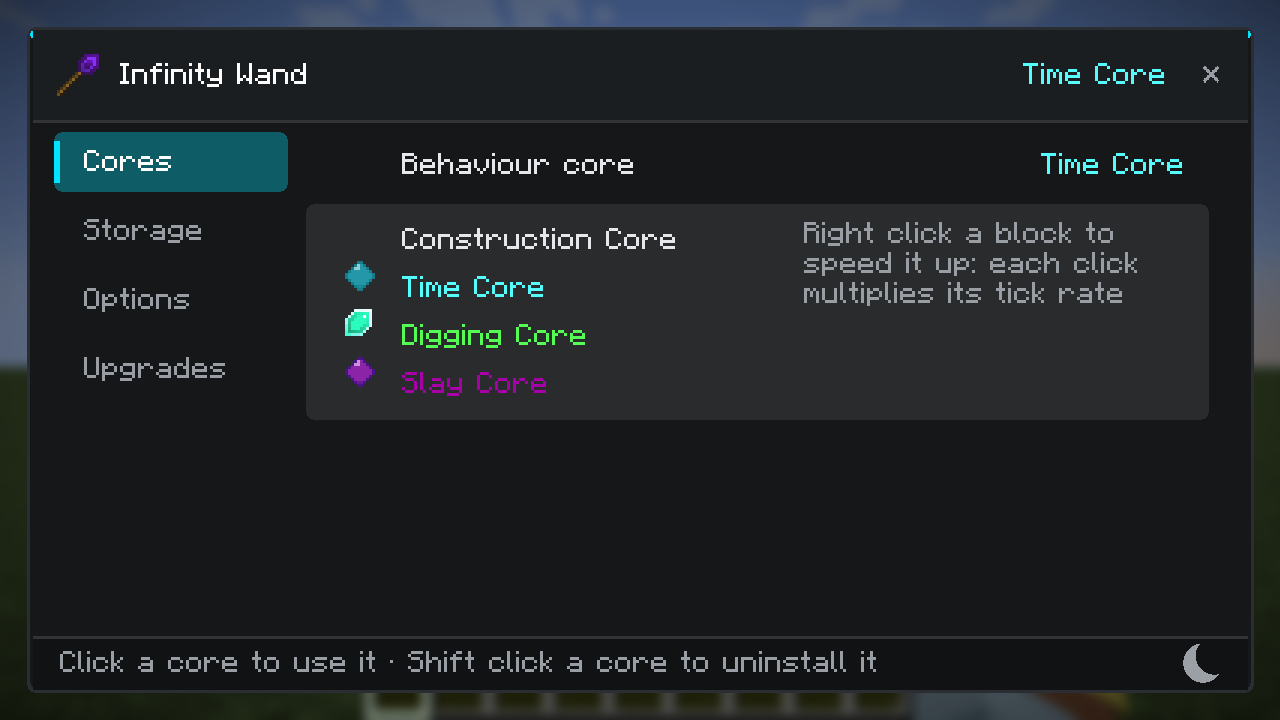
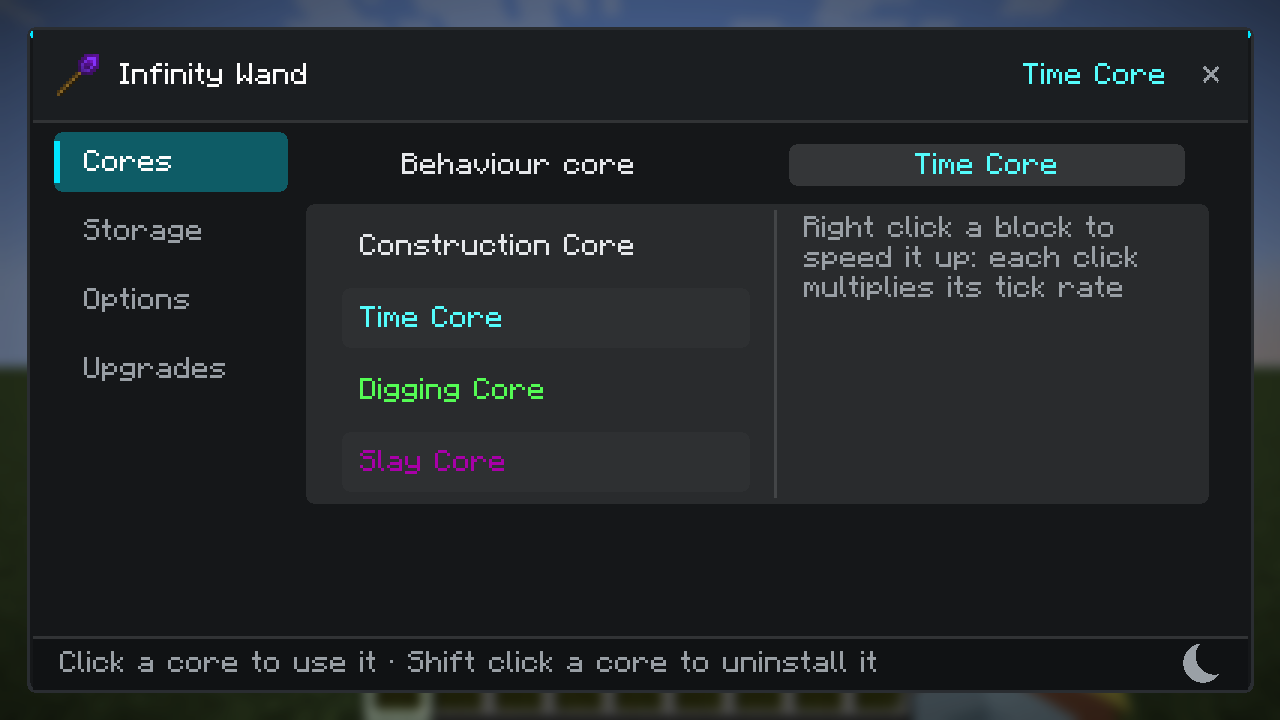
核心页第一行恢复原样值框（无箭头），列表改为每个核心独立行框 + 竖分栏线（v2.16.36）
- WandRow.renderValue 增加 arrows 开关：画框但可省掉 ‹ ›
- selectedCoreRow：行为核心/物品核心行仍是值框样式，只显示不可点
- WandRow.TwoColumn 重写：左栏每个条目独立圆角行框、隔行条纹、选中用 Ui.OK；中间 1px 竖线；右栏描述折行
- 列表去掉图标（按标注），行高 20 + 间隔 4，点击落在间隔不触发
- 截图更新 docs/wand-screen-cores.png、docs/wand-screen-storage.png

Changed region(s): [[0.25, 0.3056, 0.5938, 0.7028], [0.5938, 0.1833, 0.9375, 0.275], [0.625, 0.3056, 0.875, 0.4278]]

diff --git a/src/main/java/dev/polaris_light/constructionwand/client/ui/WandRow.java b/src/main/java/dev/polaris_light/constructionwand/client/ui/WandRow.java
@@ -125,22 +125,24 @@ public abstract class WandRow
     }
 
     /**
-     * A block that is split in two: a list to pick from on the left and the description of what is picked
-     * on the right. The usual label-and-value row cannot say that, so this row draws both columns itself
-     * and turns a click into the line it landed on.
+     * A block of the page split in two, with a divider between them: the entries to pick from on the left,
+     * the description of what is picked on the right.
+     * <p>
+     * Every entry is a row of its own with its own background, so a list of cores reads as a list of
+     * buttons instead of one slab of text; the picked one is drawn with the accent colour. The block grows
+     * with the number of entries and the page scrolls it like any other content.
      */
     public static class TwoColumn extends WandRow
     {
         /**
-         * @param icon     the icon of the entry, or {@code null} for one without
          * @param label    what the entry is called
-         * @param selected whether it is the one in use, which is what the colour marks
+         * @param selected whether it is the one in use
          */
-        public record Entry(@Nullable ItemStack icon, Component label, boolean selected) {
+        public record Entry(Component label, boolean selected) {
         }
 
-        /** The list needs room for the icon of a line, the description does not. */
-        private static final int LIST_LINE = 16;
+        private static final int ENTRY_HEIGHT = 20;
+        private static final int ENTRY_GAP = 4;
         private static final int TEXT_LINE = 10;
 
         private final List<Entry> entries;
@@ -153,12 +155,16 @@ public abstract class WandRow
             this.onSelect = onSelect;
         }
 
-        private int listWidth() {
-            return Math.max(60, (width - 24) / 2);
+        private int columnWidth() {
+            return Math.max(60, (width - 28) / 2);
+        }
+
+        private int dividerX() {
+            return x + 12 + columnWidth() + 8;
         }
 
         private int descriptionX() {
-            return x + 12 + listWidth() + 16;
+            return dividerX() + 10;
         }
 
         private int descriptionWidth() {
@@ -169,12 +175,14 @@ public abstract class WandRow
             return font.split(description, descriptionWidth());
         }
 
+        private int listHeight() {
+            return entries.size() * ENTRY_HEIGHT + Math.max(0, entries.size() - 1) * ENTRY_GAP;
+        }
+
         @Override
         public int height() {
             Font font = Minecraft.getInstance().font;
-            int list = entries.size() * LIST_LINE;
-            int text = descriptionLines(font).size() * TEXT_LINE;
-            return Math.max(list, text) + 8;
+            return Math.max(listHeight(), descriptionLines(font).size() * TEXT_LINE) + 8;
         }
 
         @Override
@@ -182,15 +190,17 @@ public abstract class WandRow
             int top = y + 4;
             for(int index = 0; index < entries.size(); index++) {
                 Entry entry = entries.get(index);
-                int lineY = top + index * LIST_LINE;
-                if(entry.icon() != null && !entry.icon().isEmpty()) {
-                    graphics.renderItem(entry.icon(), x + 10, lineY - 4);
-                }
-                Ui.text(graphics, font, trim(font, entry.label(), listWidth() - 24), labelX(entry.icon()),
-                        lineY + 4, entry.selected() ? Ui.OK : Ui.TEXT);
+                int entryY = top + index * (ENTRY_HEIGHT + ENTRY_GAP);
+                Ui.rowBackground(graphics, x + 12, entryY, columnWidth(), ENTRY_HEIGHT, false, index % 2 == 1);
+                Ui.text(graphics, font, trim(font, entry.label(), columnWidth() - 12), x + 18, entryY + 6,
+                        entry.selected() ? Ui.OK : Ui.TEXT);
             }
 
-            int descriptionTop = y + 6;
+            // The divider that keeps the two columns apart.
+            int dividerTop = y + 2;
+            Ui.rounded(graphics, dividerX(), dividerTop, 1, height() - 4, Ui.DIVIDER);
+
+            int descriptionTop = y + 4;
             for(FormattedCharSequence line : descriptionLines(font)) {
                 graphics.drawString(font, line, descriptionX(), descriptionTop, Ui.TEXT_DIM, false);
                 descriptionTop += TEXT_LINE;
@@ -200,11 +210,14 @@ public abstract class WandRow
         @Override
         public boolean mouseClicked(double mouseX, double mouseY, int button) {
             if(button != 0 || !contains(mouseX, mouseY)) return false;
-            // The right half is the description, not a list; only the left column picks something.
-            if(mouseX >= descriptionX() - 8) return false;
+            // Only the left column is a list, the right one is the description.
+            if(mouseX >= dividerX()) return false;
 
-            int index = (int) ((mouseY - (y + 4)) / LIST_LINE);
+            int index = (int) ((mouseY - (y + 4)) / (ENTRY_HEIGHT + ENTRY_GAP));
             if(index < 0 || index >= entries.size()) return false;
+            // A click in the gap between two entries belongs to neither of them.
+            int offset = (int) ((mouseY - (y + 4)) % (ENTRY_HEIGHT + ENTRY_GAP));
+            if(offset > ENTRY_HEIGHT) return false;
 
             onSelect.accept(index);
             return true;
@@ -423,13 +436,7 @@ public abstract class WandRow
                 int color = enabled ? Ui.TEXT_DIM : Ui.TEXT_OFF;
                 Ui.text(graphics, font, trim(font, subtitle, labelSpace), labelX, y + 18, color);
             }
-            if(arrows) {
-                renderValue(graphics, font, enabled, value, controlX(), right(), y + (height - 14) / 2);
-            }
-            else if(!value.getString().isEmpty()) {
-                Ui.textRight(graphics, font, trim(font, value, right() - controlX()),
-                        right() - 8, y + (height - 14) / 2 + 3, enabled ? Ui.OK : Ui.TEXT_OFF);
-            }
+            renderValue(graphics, font, enabled, value, controlX(), right(), y + (height - 14) / 2, arrows);
         }
 
         @Override
@@ -455,14 +462,16 @@ public abstract class WandRow
      * Draws a value box with the two arrows, shared by the rows that cycle through values.
      */
     static void renderValue(GuiGraphics graphics, Font font, boolean enabled, Component value,
-                            int left, int right, int y) {
+                            int left, int right, int y, boolean arrows) {
         int height = 14;
         int accent = enabled ? Ui.accent() : Ui.TEXT_OFF;
         Ui.rounded(graphics, left, y, right - left, height, 0x22FFFFFF);
-        Ui.textRight(graphics, font, "\u203a", right - 5, y + 3, accent);
-        Ui.text(graphics, font, "\u2039", left + 5, y + 3, accent);
+        if(arrows) {
+            Ui.textRight(graphics, font, "\u203a", right - 5, y + 3, accent);
+            Ui.text(graphics, font, "\u2039", left + 5, y + 3, accent);
+        }
 
-        String text = trim(font, value, right - left - 22);
+        String text = trim(font, value, right - left - (arrows ? 22 : 12));
         Ui.text(graphics, font, text, (left + right) / 2 - font.width(text) / 2, y + 3,
                 enabled ? Ui.TEXT : Ui.TEXT_OFF);
     }

diff --git a/src/main/java/dev/polaris_light/constructionwand/client/ScreenWand.java b/src/main/java/dev/polaris_light/constructionwand/client/ScreenWand.java
@@ -424,8 +424,7 @@ public class ScreenWand extends Screen
         // The list is the selector: every installed core is a row, and clicking one selects it. Cycling
         // through a value box needed as many clicks as the wanted core was far away in the order, which
         // stops working once a wand carries a handful of cores.
-        rows.add(new WandRow.Text(text("gui.core.behaviour"),
-                coreName(wandOptions.cores, wandOptions.cores.get()), Ui.OK, false, null));
+        rows.add(selectedCoreRow(text("gui.core.behaviour"), wandOptions.cores));
         rows.add(corePicker(wandOptions.cores));
     }
 
@@ -434,8 +433,7 @@ public class ScreenWand extends Screen
      * to. The two belong together, a storage core without its bound containers has nothing to give.
      */
     private void buildStorage() {
-        rows.add(new WandRow.Text(text("gui.core.material"),
-                coreName(wandOptions.materialCores, wandOptions.materialCores.get()), Ui.OK, false, null));
+        rows.add(selectedCoreRow(text("gui.core.material"), wandOptions.materialCores));
         rows.add(corePicker(wandOptions.materialCores));
         buildBindings();
     }
@@ -444,11 +442,21 @@ public class ScreenWand extends Screen
      * One row per installed core, the chosen one marked. A shift click uninstalls that core, the hint in the
      * footer says so.
      */
+    /**
+     * The core in use, in the same value box the screen used before, only without the two arrows: the box
+     * made sense while it was the selector, and now it is a plain reading of the slot.
+     */
+    private WandRow selectedCoreRow(Component label, WandUpgradesSelectable<IWandCore> option) {
+        return new WandRow.Cycle(null, label, null, coreName(option, option.get()), true, null, false, false,
+                back -> {
+                });
+    }
+
     private WandRow corePicker(WandUpgradesSelectable<IWandCore> option) {
         IWandCore selected = option.get();
         List<WandRow.TwoColumn.Entry> entries = new ArrayList<>();
         for(IWandCore core : option.getUpgrades()) {
-            entries.add(new WandRow.TwoColumn.Entry(coreIcon(core), coreName(option, core), core == selected));
+            entries.add(new WandRow.TwoColumn.Entry(coreName(option, core), core == selected));
         }
         return new WandRow.TwoColumn(entries, translate(option.getDescTranslation()),
                 index -> selectCore(option, option.getUpgrades().get(index)));

diff --git a/README-PLUS.md b/README-PLUS.md
@@ -28,6 +28,15 @@
 - `WandData.writeRoot/removeRoot/update`：同样只对手杖生效，任何漏网调用都写不进去。
 
 实测：手持 60 石头右键方块后 `components={…}` 里**没有** `custom_data`；手杖自己仍正常带 `wand_options`。
+## 核心页：第一行原样保留值框、下面左右两栏列表（2.16.36）
+
+- **第一行与原来一模一样**：`行为核心` + 右侧**值框**里显示当前核心（`WandRow.Cycle` 的 `arrows=false` 只画框、不画 `‹ ›`），
+  且不再响应点击；储存页的 `物品核心` 行同理；
+- **下面分成左右两栏，带竖分栏线**（`WandRow.TwoColumn` 重写）：左栏每个核心**各自一个圆角行框**（选中项用 `Ui.OK` 文字、隔行轻微条纹），
+  中间一条 1px 竖线（`Ui.DIVIDER`），右栏是当前核心的完整描述（按栏宽折行）；
+- **列表不带图标**（按标注），行高 20 + 间隔 4，点击按行高换算，落在间隔里不触发；块高度随条目数增长，页面可正常滚动；
+- 截图：`docs/wand-screen-cores.png`、`docs/wand-screen-storage.png`。
+
 ## 核心页：第一行只显示，下面左右两栏（2.16.35）
 
 按标注图重做布局：
